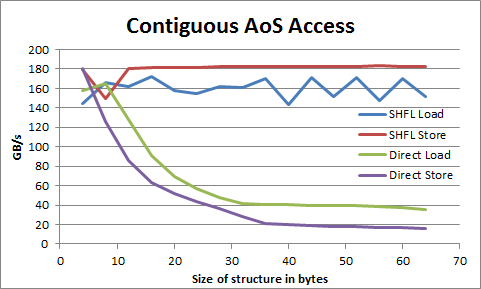
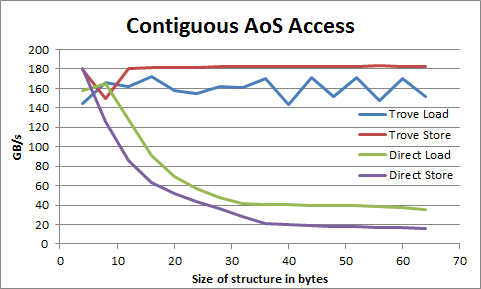
Standardize nomenclature.

Changed region(s): [[0.8108, 0.3737, 0.9356, 0.4983]]

diff --git a/README.md b/README.md
@@ -40,14 +40,14 @@ High-level Interface
 
 template<typename T>
 __global__ void
-shfl_gather(const int length, const int* indices, T* raw_source, T* raw_dest) {
+trove_gather(const int length, const int* indices,
+             trove::coalesced_ptr<T> src, //Wrapped pointer
+             trove::coalesced_ptr<T> dst) {
     int global_index = threadIdx.x + blockDim.x * blockIdx.x;
     if (global_index < length) {
         int index = indices[global_index];
-        trove::coalesced_ptr<T> source(raw_source);
-        trove::coalesced_ptr<T> dest(raw_dest);
-        T data = s[index];
-        r[global_index] = data;
+        T data = src[index];
+        dst[global_index] = data;
     }
 }
 ```
